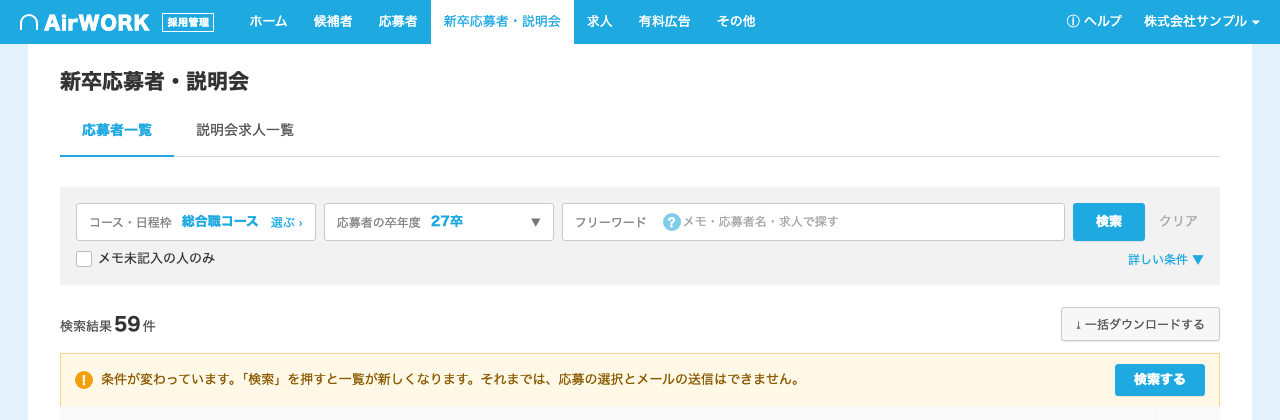
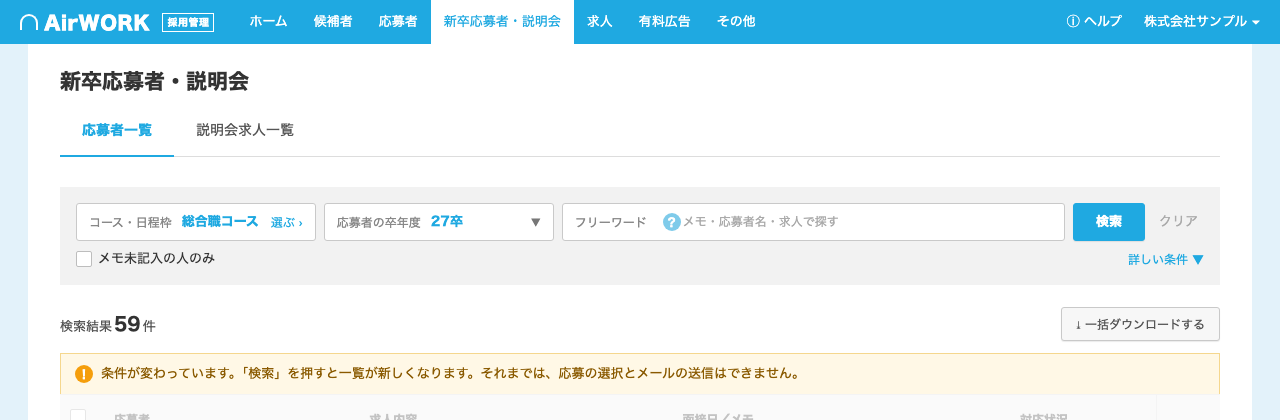
条件が変わったときのお知らせの帯から「検索する」ボタンを外す（検索ボタンは検索欄の1か所だけ）

diff --git a/app.js b/app.js
@@ -241,7 +241,7 @@
     if (isDirty()) {
       $('headBox').classList.remove('on');
       $('bar2').className = 'bar2 dirtyb';
-      $('bar2').innerHTML = '<span class="dmsg"><span class="ic">!</span>条件が変わっています。「検索」を押すと一覧が新しくなります。それまでは、応募の選択とメールの送信はできません。</span><span class="btn dsb" id="doSearch">検索する</span>';
+      $('bar2').innerHTML = '<span class="dmsg"><span class="ic">!</span>条件が変わっています。「検索」を押すと一覧が新しくなります。それまでは、応募の選択とメールの送信はできません。</span>';
       return;
     }
     const rows = pageRows();
@@ -434,9 +434,6 @@
       selected = new Set();
     } else if (t.id === 'sendBtn') {
       if (selected.size) openMail();
-      return;
-    } else if (t.id === 'doSearch') {
-      search();
       return;
     } else return;
     renderTable(); renderBar();
